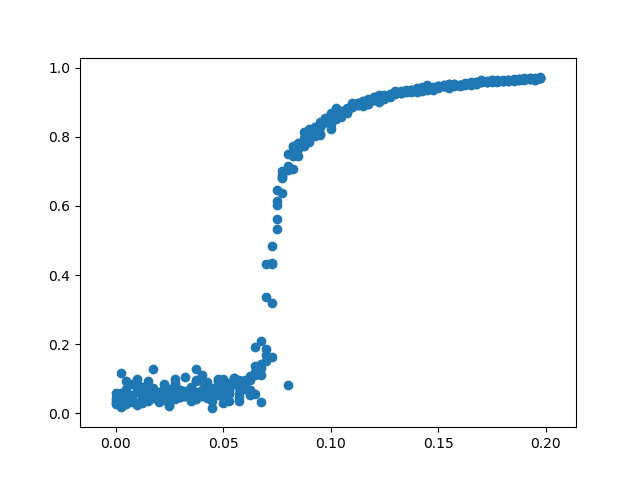
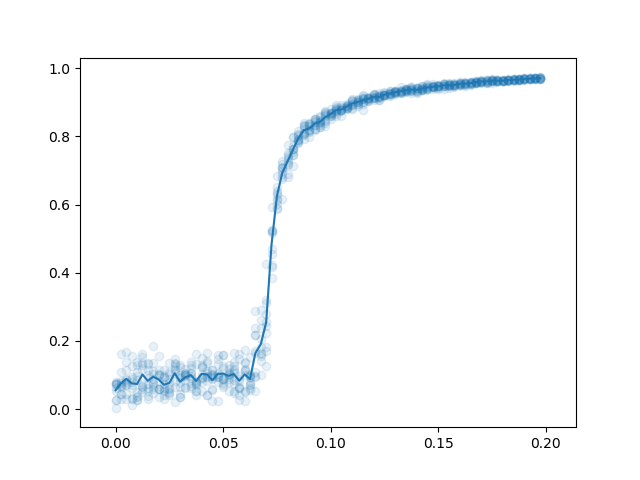
.

diff --git a/plots.py b/plots.py
@@ -66,17 +66,27 @@ def quiverplot_animation(x,v,J,lim=0.5):
 
 def phase_change_plot(cm):
     va = []
-    J_ = np.repeat(np.arange(0.0, 0.2, 0.0025), 5)
-    for J in J_:
+    vm = []
+
+    J_  = np.arange(0.0, 0.2, 0.0025)
+    J__ = np.repeat(J_, 10)
+    
+    for J in J__:
         va_ = cm.calculate_mean_velocity(J = J,
-                                         N = 256,
+                                         N = 128,
                                          v0 = 0.05,
-                                         n_steps = 500)
+                                         n_steps = 1000)
 
         va.append(va_)
         print J, va_
 
-    plt.scatter(J_, va)
+    va = np.array(va)
+ 
+    for J in J_:
+        vm.append(np.mean(va[J__ == J]))
+
+    plt.scatter(J__, va, alpha=0.1)
+    plt.plot(J_, vm)
     plt.savefig('figures/phase_change_J.png')
     plt.show()
 
